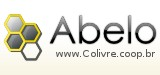
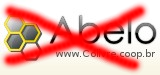
ActionItem20: similar a ActionItem23 e pegando também ActionItem61 => imagens atualizadas + imagens marcadas para a morte + correções de código de layout

diff --git a/public/designs/icons/default/icons.css b/public/designs/icons/default/icons.css
@@ -1,48 +1,32 @@
 
-#TODO remove it
-#This is specific to anhetegua
-.back { 
-  width: 24px;
-  height: 24px;
-  background-image: url('back.png');
-}
+.none_add   { background-image: url('none.png') }
+.add        { background-image: url('add.png') }
+.search     { background-image: url('search.png') }
+.edit_small { background-image: url('edit_small.png') }
+.view_small { background-image: url('view_small.png') }
+.del_small  { background-image: url('del_small.png') }
+.edit       { background-image: url('edit.png') }
+.save       { background-image: url('save.png') }
+.back       { background-image: url('back.png') }
+.reset      { background-image: url('reset.png') }
+.image      { background-image: url('image.png') }
+.password   { background-image: url('password.png') }
+.go-jump    { background-image: url('go-jump.png') }
+.system-log-out { background-image: url('system-log-out.png') }
+.previous_page  { background-image: url('go-previous.png') }
+.next_page      { background-image: url('go-next.png') }
 
-.none_add { background-image: url('none.png');}
-.add { background-image: url('add.png');}
-.search { background-image: url('search.png');}
-.edit_small { background-image: url('edit_small.png');}
-.view_small { background-image: url('view_small.png');}
-.del_small { background-image: url('del_small.png');}
-.edit { background-image: url('edit.png');}
-.save { background-image: url('save.png');}
-.back { background-image: url('back.png');}
-.reset { background-image: url('reset.png');}
-.image { background-image: url('image.png');}
-.password { background-image: url('password.png');}
-.go-jump { background-image: url('go-jump.png');}
-.system-log-out { background-image: url('system-log-out.png');}
-.previous_page { 
-  background-image: url('previous_page.png'); 
-  width: 32px;
-  height: 32px;  
-}
-.next_page { 
-  background-image: url('next_page.png'); 
-  width: 32px;
-  height: 32px;  
-}
-/*
- * Menu Icons
- * 
- */
 
-.departments { background-image: url('departments.png');}
-.ledgers { background-image: url('ledgers.png');}
-.point_of_sale { background-image: url('point_of_sale.png');}
-.stock { background-image: url('stock.png');}
-.documents { background-image: url('documents.png');}
-.categories { background-image: url('categories.png');}
-.system_actors { background-image: url('system_actors.png');}
-.permissions { background-image: url('permissions.png');}
-.mass_mails { background-image: url('mass_mails.png');}
-.store { background-image: url('store.png');}
+/* * * Menu Icons * * */
+
+.departments   { background-image: url('departments.png') }
+.ledgers       { background-image: url('ledgers.png') }
+.point_of_sale { background-image: url('point_of_sale.png') }
+.stock         { background-image: url('stock.png') }
+.documents     { background-image: url('documents.png') }
+.categories    { background-image: url('categories.png') }
+.system_actors { background-image: url('system_actors.png') }
+.permissions   { background-image: url('permissions.png') }
+.mass_mails    { background-image: url('mass_mails.png') }
+.store         { background-image: url('store.png') }
+

diff --git a/public/designs/templates/default/stylesheets/style.css b/public/designs/templates/default/stylesheets/style.css
@@ -17,36 +17,39 @@ body {
 
 #info_org {
   font-size: 17px;
-  color: #c4a000;
-}
-
-#info_org span {
-font-size: 19px;
-font-weight: bold;
-}
-
-#info_org {
-  padding-left: 80px;
-  padding-right: 160px;
+  color: #C4A000;
   height: 78px;
   display:table-cell;
   vertical-align: middle;
 }
 
+#info_org span {
+  font-size: 19px;
+  font-weight: bold;
+}
+
 #logo_org {
-position: absolute;
-top: 2px;
-left: 2px;
-margin-right: 5px;
+  float: left;
+  margin-left: 5px;
+  width: 75px;
+  height: 75px;
+  background-position: 50% 50%;
+  background-repeat: no-repeat;
+}
+#logo_org span {
+  display: none;
 }
 
 #banner_top {
 position: absolute;
 top: 2px;
 right: 5px;
-background: url('../images/bannerabelo_160x75.jpg');
+background: url('../images/bannerabelo_160x50.png') 50% no-repeat;
 width: 160px;
 height: 75px;
+}
+#banner_top span {
+  display: none;
 }
 
 #footer {

diff --git a/public/designs/templates/default/stylesheets/pointsales.css b/public/designs/templates/default/stylesheets/pointsales.css
@@ -191,6 +191,9 @@ border: 1px solid #545454;
 }
 
 #banner_bottom {
+background: url('../images/bannerabelo_160x50.png') 50% no-repeat;
+width: 160px;
+height: 75px;
 position: absolute;
 left: 0;
 }
